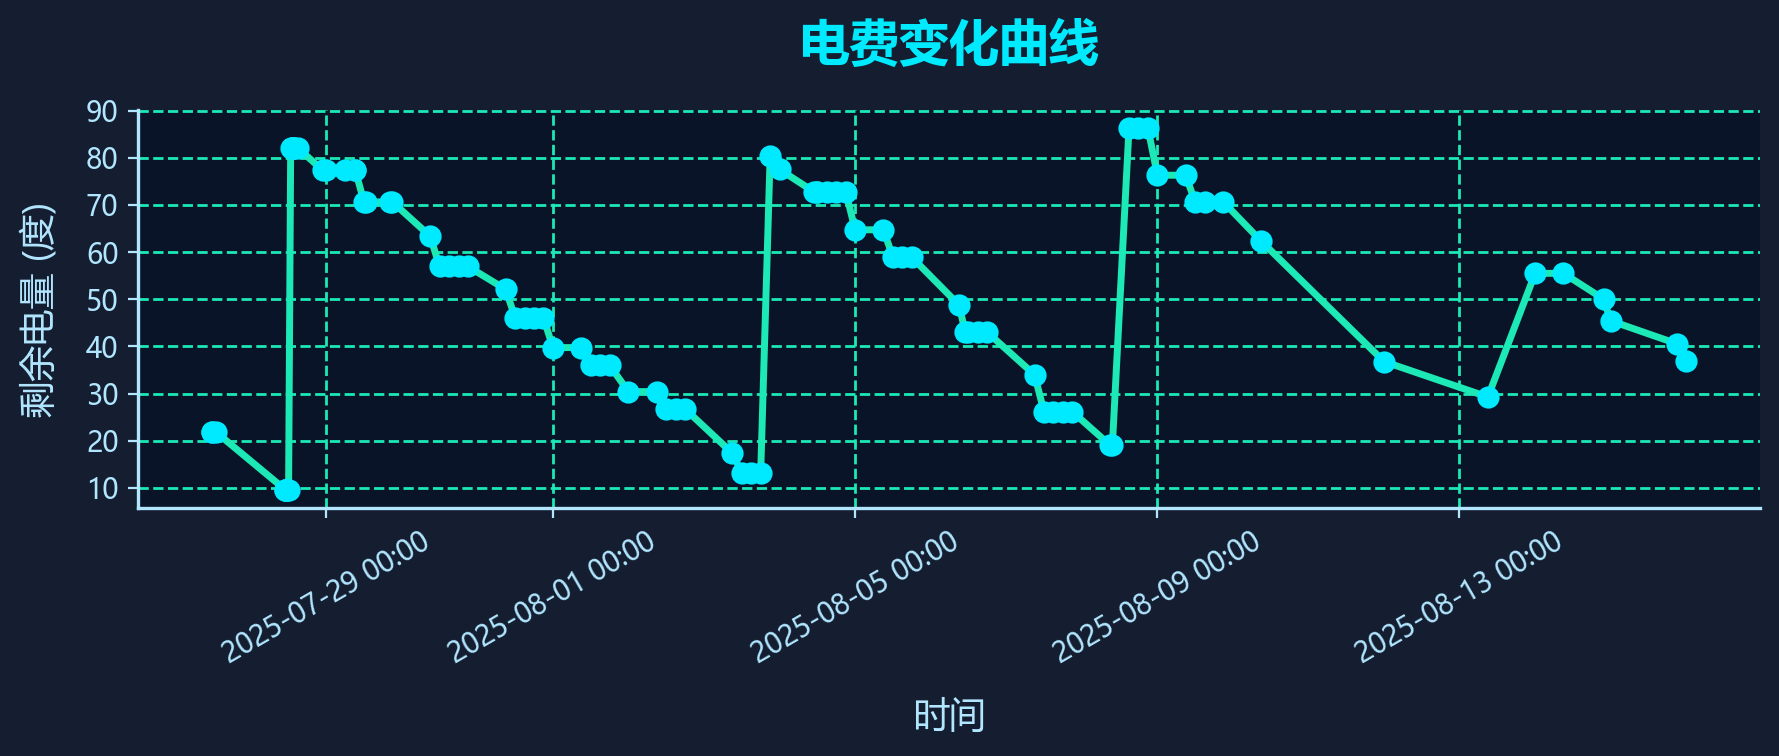
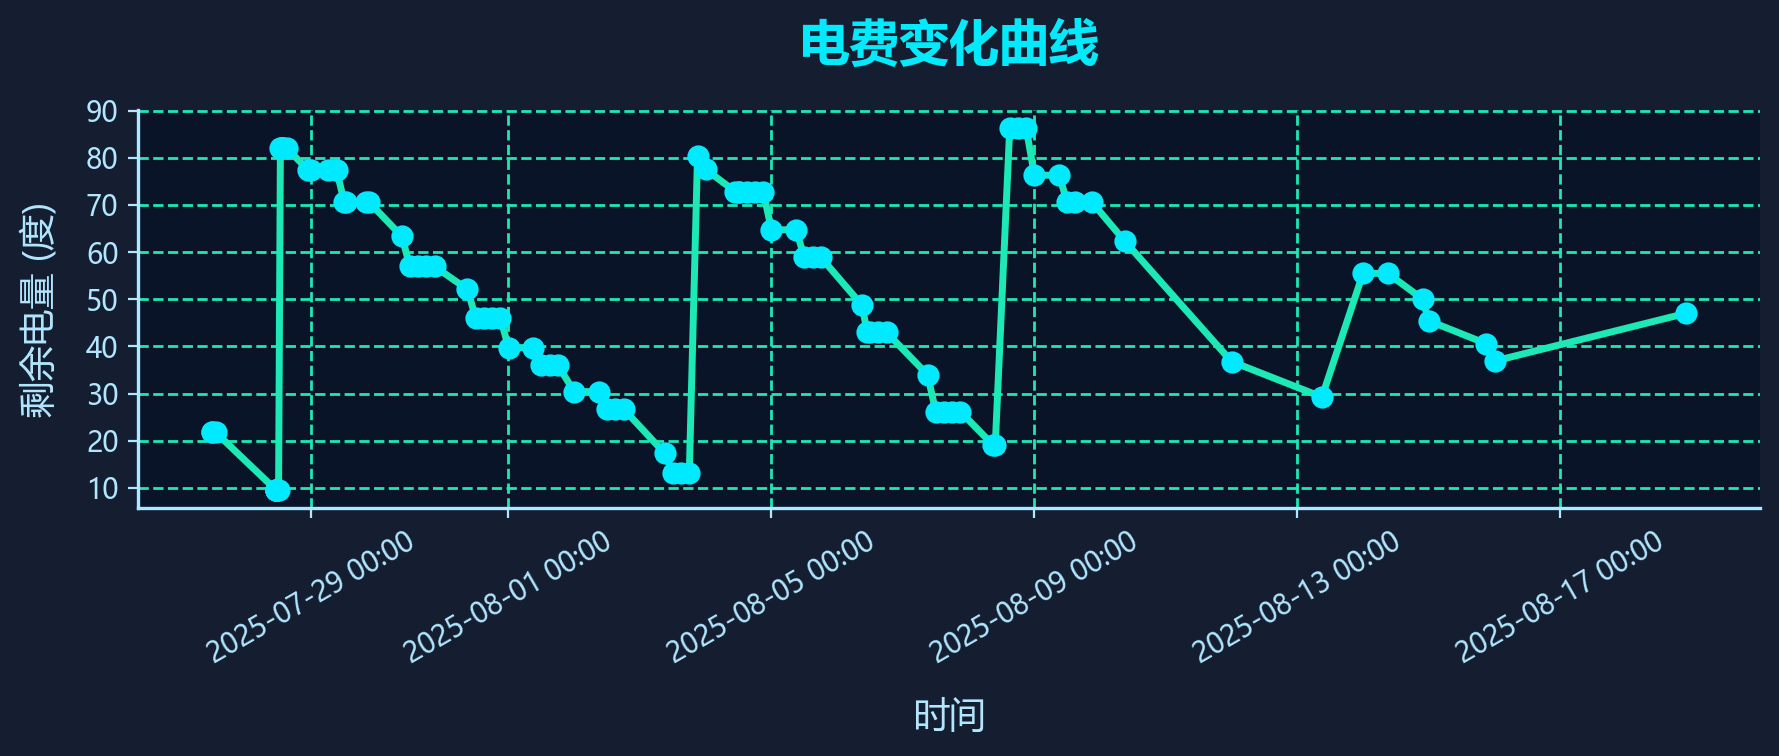
2025-08-18 22:04 自动提交电费变更

diff --git a/data/debug_page_source.html b/data/debug_page_source.html
@@ -2,7 +2,7 @@
     <meta http-equiv="Content-Type" content="text/html; charset=UTF-8">
     <meta http-equiv="X-UA-Compatible" content="IE=edge">
     <meta name="viewport" content="width=device-width, initial-scale=1, user-scalable=no">
-    <meta name="_csrf" content="cd3af3ef-de34-4c25-9f9c-6a12245ff824">
+    <meta name="_csrf" content="bb953c1a-13a9-48f3-8bb6-baecda326dfb">
     <meta name="_csrf_header" content="X-CSRF-TOKEN">
     <link type="image/png" href="/epay/images/nju/icon.png" rel="shortcut icon">
     <link type="text/css" rel="stylesheet" href="/epay/css/wxpage/weui.min.css">
@@ -32,7 +32,7 @@
 
 
 <body>
-<div id="app"><div class="centent"><div class="top"><div class="clearfix"><span class="fl">持卡人姓名：<i>吴相民</i></span></div> <div class="clearfix"><span class="fl">校园卡余额：<i class="green">61.09元</i></span></div></div> <div class="line"></div> <div class="cont"><div class="clearfix"><span class="fl">缴费地址：<i>仙林校区 18幢 18栋第4层422</i></span></div> <div class="clearfix"><span class="fl">剩余电量：<i>36.89度</i><em></em></span></div> <!----> <!----></div> <div class="num clearfix"><div style="display: flex; flex-wrap: wrap;"><span class="active">10元</span><span class="">20元</span><span class="">50元</span><span class="">100元</span><span class="">200元</span><span class="">自定义</span></div></div> <div class="inputbox" style="display: none;"><input type="text" placeholder="请输入充值金额" pattern="[0-9]*" maxlength="4" id="amount"></div> <div class="footer">充值</div> <div class="desc">充值时间：每天00:05-23:55</div> <div class="wapat"><div class="wapat-inner"><div class="wapat-title">错误！</div> <div class="wapat-btn-box"><div class="wapat-btn wapat-btn-ok">确定</div></div></div></div></div></div>
+<div id="app"><div class="centent"><div class="top"><div class="clearfix"><span class="fl">持卡人姓名：<i>吴相民</i></span></div> <div class="clearfix"><span class="fl">校园卡余额：<i class="green">61.09元</i></span></div></div> <div class="line"></div> <div class="cont"><div class="clearfix"><span class="fl">缴费地址：<i>仙林校区 18幢 18栋第4层422</i></span></div> <div class="clearfix"><span class="fl">剩余电量：<i>47.03度</i><em></em></span></div> <!----> <!----></div> <div class="num clearfix"><div style="display: flex; flex-wrap: wrap;"><span class="active">10元</span><span class="">20元</span><span class="">50元</span><span class="">100元</span><span class="">200元</span><span class="">自定义</span></div></div> <div class="inputbox" style="display: none;"><input type="text" placeholder="请输入充值金额" pattern="[0-9]*" maxlength="4" id="amount"></div> <div class="footer">充值</div> <div class="desc">充值时间：每天00:05-23:55</div> <div class="wapat"><div class="wapat-inner"><div class="wapat-title">错误！</div> <div class="wapat-btn-box"><div class="wapat-btn wapat-btn-ok">确定</div></div></div></div></div></div>
 
 
 
